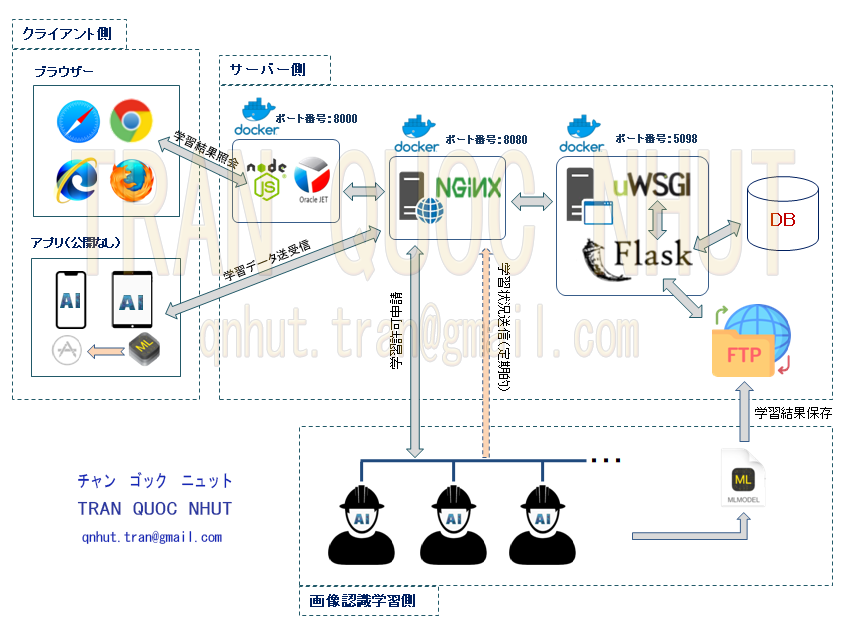
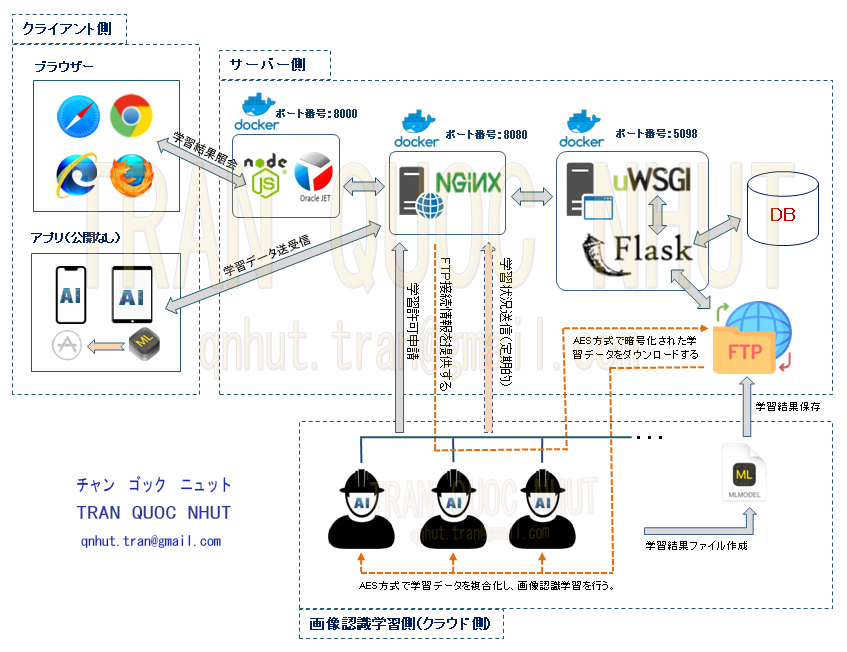
README修正

diff --git a/README.md b/README.md
@@ -22,6 +22,7 @@
 - nginx: Nginxを通じてHTTPクライアントからのリクエストをuWSGIに転送する。
 - uwsgi: APIサービス（uWSGI + Flask）として下記を処理させて、クライアント側へ結果を返却する。
     - ログインAPI、ログアウトAPI
+    - ログイン状況認証API
     - 学習状況監視、画像データ閲覧などのデータ抽出API
     - データ更新API
     - データ登録API
@@ -35,11 +36,12 @@
 
 ### ③ 画像認識学習側（クラウド側）
 - traindata: 学習データおよび学習結果データを保存するフォルダーである。<br/>
-学習データについてはAES方式で暗号化されたpickle拡張子のファイルである。
-- trainapp: 画像データ学習アプリケーションで、AIワーカーとして定期的に動かすようにする。<br/>
-    - 複数のAIワーカーが同時に学習できるが、同時学習可能なAIワーカーを超える場合は、<br/>
-    メモリがオーバーされる可能性があるため、スキップとする。<br/>
-    - 画像データ学習終了後、学習結果(H5, MLModelなど)をサーバー側（FTPサーバー）へ再送し、<br/>クライアント側で学習データを全て削除する。
+- trainapp: 非同期タスクで、AIワーカーとして定期的に動かすようにする。<br/>
+    - 学習データはAES方式で暗号化されたpickle拡張子のファイルであるため、<br/>
+    FTPからダウンロードした後、AES方式で学習データを複合化し、画像認識学習を行う。
+    - 複数のAIワーカーが同時に学習できるが、同時学習可能な回数を超える場合は、<br/>
+    CPUメモリがオーバーされる可能性があるため、超過分をスキップするとする。<br/>
+    - 画像認識学習終了後、学習結果(H5, MLModelなど)をサーバー側（FTPサーバー）へ再送し、<br/>クラウド側で学習データを全て削除する。
 - 環境構築: Docker, Redis, Celery
 - 開発言語: Python 3.8
 - ディープラーニング方法: Keras (VGG16モデル, VGG19モデルなど)
